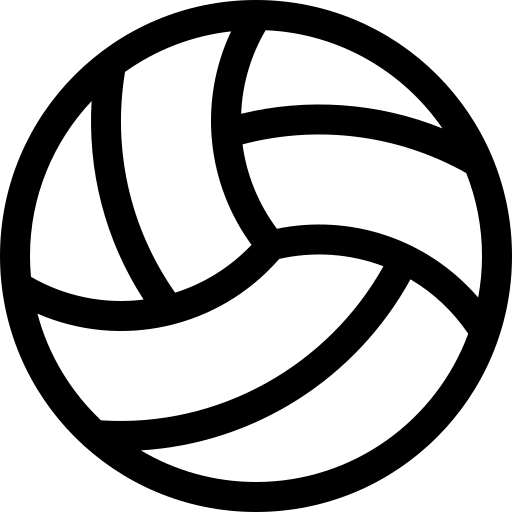
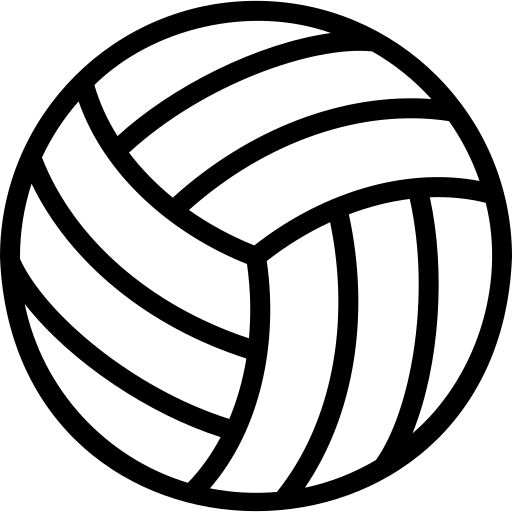
[FEAT] Refacto theme homeScreen

diff --git a/src/ui/components/cards/ShortcutCard.tsx b/src/ui/components/cards/ShortcutCard.tsx
@@ -4,58 +4,72 @@ import Row from '@components/common/Row';
 import ImageConstants from '@constants/ImageConstants';
 import { ShortcutCardInterface } from '@interfaces/ComponentsInterfaces';
 import { useTheme } from '@react-navigation/native';
+import Size from '@utils/Size';
 import React, { FC } from 'react';
-import { StyleSheet, Text, TouchableOpacity, View } from 'react-native';
+import { ImageBackground, StyleSheet, Text, TouchableOpacity, View } from 'react-native';
 
-const ShortcutCard: FC<ShortcutCardInterface> = ({ marginLeft = 20, marginRight = 20, onPress, label, icon }) => {
+const ShortcutCard: FC<ShortcutCardInterface> = ({ paddingLeft = 20, paddingRight = 20, onPress, label, icon }) => {
     const { colors } = useTheme();
     const styles = shortcutCardStyle(colors);
 
     return (
-        <TouchableOpacity
+        <View
             style={[
-                styles.container,
+                styles.mainContainer,
                 {
-                    marginLeft: marginLeft,
-                    marginRight: marginRight
+                    paddingLeft: paddingLeft,
+                    paddingRight: paddingRight
                 }
             ]}
-            onPress={onPress}
         >
-            <Row
-                justify={'space-between'}
-                flex={1}
+            <TouchableOpacity
+                style={[styles.container]}
+                onPress={onPress}
             >
-                <ImageIcon
-                    source={icon}
-                    size={40}
-                    color={colors.onSecondary}
-                />
-                <ImageButton
-                    source={ImageConstants.forwardArrow}
-                    size={16}
-                    color={colors.onSecondary}
-                    style={styles.arrowButton}
-                    onPress={onPress}
-                />
-            </Row>
+                <ImageBackground
+                    resizeMode={'cover'}
+                    tintColor={`${colors.onSecondary}11`}
+                    source={ImageConstants.shortcutBackDesign}
+                    style={styles.image}
+                >
+                    <Row
+                        justify={'space-between'}
+                        flex={1}
+                    >
+                        <ImageIcon
+                            source={icon}
+                            size={40}
+                            color={colors.onSecondary}
+                        />
+                        <ImageButton
+                            source={ImageConstants.forwardArrow}
+                            size={16}
+                            color={colors.onSecondary}
+                            style={styles.arrowButton}
+                            onPress={onPress}
+                        />
+                    </Row>
 
-            <View style={styles.textBox}>
-                <Text style={styles.text}>{label}</Text>
-            </View>
-        </TouchableOpacity>
+                    <View style={styles.textBox}>
+                        <Text style={styles.text}>{label}</Text>
+                    </View>
+                </ImageBackground>
+            </TouchableOpacity>
+        </View>
     );
 };
 
 const shortcutCardStyle = (colors: any) =>
     StyleSheet.create({
+        mainContainer: {
+            width: Size.getScreenWidth() / 2,
+            height: 120
+        },
         container: {
             flex: 1,
-            height: 120,
             backgroundColor: colors.secondary,
             elevation: 1,
-            borderRadius: 10,
-            padding: 15
+            borderRadius: 10
         },
         text: {
             color: colors.onSecondary,
@@ -73,6 +87,10 @@ const shortcutCardStyle = (colors: any) =>
             padding: 3,
             borderColor: colors.onSecondary,
             marginRight: 10
+        },
+        image: {
+            flex: 1,
+            padding: 15
         }
     });
 

diff --git a/src/ui/views/HomeScreen.tsx b/src/ui/views/HomeScreen.tsx
@@ -6,7 +6,7 @@ import ShortcutCard from '@components/cards/ShortcutCard';
 import CustomButton from '@components/common/CustomButton';
 import ImageIcon from '@components/common/ImageIcon';
 import Row from '@components/common/Row';
-import RouteConstants from '@constants/RouteConstants';
+import RouteConstants from '@constants/routes/RouteConstants';
 import { GeneralInformationsInterfaces } from '@interfaces/GeneralInformationsInterfaces';
 import { useTheme } from '@react-navigation/native';
 import { dateUtils } from '@utils/DateUtils';
@@ -22,8 +22,6 @@ const HomeScreen = ({ navigation }) => {
 
     const [homeScreenArticles, setHomeScreenArticles] = useState([]);
     const [generalInformations, setGeneralInformations] = useState<GeneralInformationsInterfaces>();
-
-    //console.log(navigation)
 
     useEffect(() => {
         fetchHomeScreenArticles();
@@ -79,6 +77,8 @@ const HomeScreen = ({ navigation }) => {
                     title={generalInformations?.title}
                     content={generalInformations?.content}
                 />
+
+                <Text style={styles.titleText}>{I18n.t('News')}</Text>
                 {homeScreenArticles.map((article, index) => (
                     <NewsCard
                         key={index}
@@ -105,15 +105,15 @@ const HomeScreen = ({ navigation }) => {
 
             <View>
                 <Text style={styles.titleText}>{I18n.t('QuickAccess')}</Text>
-                <Row>
+                <Row style={{ paddingTop: 5 }}>
                     <ShortcutCard
-                        marginRight={10}
+                        paddingRight={10}
                         onPress={() => navigation.navigate(RouteConstants.CALENDAR_SCREEN)}
                         label={I18n.t('CalendarScreen')}
                         icon={ImageConstants.calendar}
                     />
                     <ShortcutCard
-                        marginLeft={10}
+                        paddingLeft={10}
                         onPress={() =>
                             navigation.navigate(
                                 RouteConstants.NEWS_STACK_NAVIGATION as never,
@@ -149,7 +149,7 @@ const homeScreenStyle = (colors: any) =>
             marginLeft: 20,
             fontWeight: 'bold',
             fontSize: 20,
-            marginBottom: 10
+            marginBottom: 0
         }
     });
 

diff --git a/src/ui/components/cards/NewsCard.tsx b/src/ui/components/cards/NewsCard.tsx
@@ -1,7 +1,7 @@
 import ImageIcon from '@components/common/ImageIcon';
 import Row from '@components/common/Row';
 import ImageConstants from '@constants/ImageConstants';
-import RouteConstants from '@constants/RouteConstants';
+import RouteConstants from '@constants/routes/RouteConstants';
 import { useNavigation, useTheme } from '@react-navigation/native';
 import Size from '@utils/Size';
 import React from 'react';
@@ -40,13 +40,12 @@ const NewsCard = ({ important, title, publishedDate, content, index, fromHomeScr
                 }}
             >
                 <Row alignItems={'flex-start'}>
-                    {important && index === 0 && (
-                        <ImageIcon
-                            source={ImageConstants.news}
-                            size={80}
-                            color={colors.tertiary}
-                        />
-                    )}
+                    <ImageIcon
+                        source={important && index === 0 ? ImageConstants.tournament : ImageConstants.newspaper}
+                        size={important && index === 0 ? 60 : 30}
+                        color={!important && colors.tertiary}
+                    />
+
                     <View style={styles.textBox}>
                         <Text
                             numberOfLines={1}

diff --git a/src/ui/components/cards/CustomHeaderCard.tsx b/src/ui/components/cards/CustomHeaderCard.tsx
@@ -2,7 +2,7 @@ import ImageButton from '@components/common/ImageButton';
 import ImageIcon from '@components/common/ImageIcon';
 import Row from '@components/common/Row';
 import ImageConstants from '@constants/ImageConstants';
-import RouteConstants from '@constants/RouteConstants';
+import RouteConstants from '@constants/routes/RouteConstants';
 import { CustomHeaderCardInterface } from '@interfaces/ComponentsInterfaces';
 import { useNavigation, useRoute, useTheme } from '@react-navigation/native';
 import Size from '@utils/Size';
@@ -44,13 +44,13 @@ const CustomHeaderCard: FC<CustomHeaderCardInterface> = ({ label, icon, onPress,
 
                 {route.name === RouteConstants.HOME_SCREEN ? (
                     <ImageIcon
-                        source={ImageConstants.volleyballBall2}
+                        source={ImageConstants.volleyballBall}
                         size={50}
                         color={colors.tertiary}
                     />
                 ) : (
                     <ImageButton
-                        source={ImageConstants.volleyballBall2}
+                        source={ImageConstants.volleyballBall}
                         size={height ? height * 0.66 : 50}
                         color={colors.tertiary}
                         onPress={() =>

diff --git a/src/constants/fixtures/ArticleFixtures.ts b/src/constants/fixtures/ArticleFixtures.ts
@@ -38,7 +38,7 @@ export const ArticleFixtures = [
     {
         id: 4,
         attributes: {
-            title: 'Article 4',
+            title: 'Seniors Féminines Régionale',
             createdAt: '2023-08-14T20:27:32.939Z',
             updatedAt: '2023-08-14T20:27:38.714Z',
             publishedAt: '2023-08-14T20:27:38.712Z',
@@ -50,7 +50,7 @@ export const ArticleFixtures = [
     {
         id: 5,
         attributes: {
-            title: 'Article 5',
+            title: 'Tournoi 14/09',
             createdAt: '2023-08-14T20:27:41.427Z',
             updatedAt: '2023-08-14T20:27:46.517Z',
             publishedAt: '2023-08-14T20:27:46.516Z',
@@ -62,7 +62,7 @@ export const ArticleFixtures = [
     {
         id: 6,
         attributes: {
-            title: 'Article 6',
+            title: 'Tarifs 2023-2024',
             createdAt: '2023-08-14T20:27:52.694Z',
             updatedAt: '2023-08-14T20:27:56.729Z',
             publishedAt: '2023-08-14T20:27:56.727Z',

diff --git a/src/interfaces/ComponentsInterfaces.ts b/src/interfaces/ComponentsInterfaces.ts
@@ -5,7 +5,7 @@ export interface CustomButtonInterface {
     label: string;
     onPress: () => void;
     backgroundColor?: 'primary' | 'secondary' | 'tertiary' | 'transparent';
-    textColor?: 'onPrimary' | 'onSecondary' | 'onTertiary' | 'onBackground';
+    textColor?: 'onPrimary' | 'onSecondary' | 'onTertiary' | 'onBackground' | 'primary' | 'secondary' | 'tertiary';
     fontWeight?: 'normal' | 'bold' | '100' | '200' | '300' | '400' | '500' | '600' | '700' | '800' | '900';
     isScreenFullWidth?: boolean;
     icon?: ImageSourcePropType;
@@ -51,8 +51,8 @@ export interface CustomHeaderCardInterface {
 }
 
 export interface ShortcutCardInterface {
-    marginLeft?: number;
-    marginRight?: number;
+    paddingLeft?: number;
+    paddingRight?: number;
     onPress: () => void;
     label: string;
     icon: ImageSourcePropType;

diff --git a/src/constants/ImageConstants.ts b/src/constants/ImageConstants.ts
@@ -12,9 +12,12 @@ export default {
     team: require('@assets/images/team.png'),
     volleyballBall: require('@assets/images/volleyballBall.png'),
     volleyballBall2: require('@assets/images/volleyballBall2.png'),
-    information: require('@assets/images/information.png'),
+    information: require('@assets/images/info.png'),
     news: require('@assets/images/news.png'),
     backArrow: require('@assets/images/backArrow.png'),
     forwardArrow: require('@assets/images/forwardArrow.png'),
-    menu: require('@assets/images/menu.png')
+    menu: require('@assets/images/menu.png'),
+    tournament: require('@assets/images/tournament.png'),
+    newspaper: require('@assets/images/newspaper.png'),
+    shortcutBackDesign: require('@assets/images/shortcutBackDesign.png')
 };

diff --git a/src/ui/components/cards/GeneralInformationsCard.tsx b/src/ui/components/cards/GeneralInformationsCard.tsx
@@ -36,6 +36,7 @@ const GeneralInformationsCard: FC<GeneralInformationsInterfaces> = ({ title, con
                         setIsVisible(true);
                     }}
                     backgroundColor={'transparent'}
+                    textColor={'tertiary'}
                     isScreenFullWidth={false}
                     fontSize={14}
                     style={{ paddingRight: 0, paddingBottom: 0 }}
@@ -76,8 +77,8 @@ const generalInformationsCardStyle = (colors: any) =>
         container: {
             width: Size.getScreenWidth(),
             padding: 20,
-            paddingTop: 0,
-            paddingBottom: 5
+            paddingTop: 5,
+            paddingBottom: 20
         },
         touchable: {
             backgroundColor: colors.surface,

diff --git a/src/ui/navigation/DrawerNavigation.tsx b/src/ui/navigation/DrawerNavigation.tsx
@@ -1,5 +1,6 @@
 import ImageIcon from '@components/common/ImageIcon';
 import CustomDrawer from '@components/customDrawer/CustomDrawer';
+import RouteConstants from '@constants/routes/RouteConstants';
 import NewsStackNavigation from '@navigation/NewsStackNavigation';
 import { createDrawerNavigator } from '@react-navigation/drawer';
 import { useTheme } from '@react-navigation/native';
@@ -10,7 +11,6 @@ import SettingsScreen from '@ui/views/SettingsScreen';
 import I18n from '@utils/I18n';
 import React from 'react';
 import ImageConstants from '../../constants/ImageConstants';
-import RouteConstants from '../../constants/RouteConstants';
 
 const Drawer = createDrawerNavigator();
 

diff --git a/src/resources/i18n/fr.tsx b/src/resources/i18n/fr.tsx
@@ -32,11 +32,11 @@ export default {
     Unavailable: 'Indisponible',
     Reason: 'Raison',
 
-    LastNews: 'Dernières actualités',
-    SeeMoreNews: "Voir plus d'actualités +",
+    News: 'Actualités',
+    SeeMoreNews: "Voir plus d'actualités",
     QuickAccess: 'Accès Rapide',
     Informations: 'Informations',
-    KnowMore: 'En savoir plus +',
+    KnowMore: 'En savoir plus',
     Welcome: 'Bienvenue',
     VilliersVolley: 'Villiers Volley',
     ClubName: 'ES Villiers-sur-Marne Volleyball'

diff --git a/src/ui/navigation/NewsStackNavigation.tsx b/src/ui/navigation/NewsStackNavigation.tsx
@@ -1,10 +1,10 @@
+import RouteConstants from '@constants/routes/RouteConstants';
 import { useTheme } from '@react-navigation/native';
 import { createStackNavigator } from '@react-navigation/stack';
 import NewsArticleScreen from '@ui/views/NewsArticleScreen';
 import NewsScreen from '@ui/views/NewsScreen';
 import I18n from '@utils/I18n';
 import React, { useEffect } from 'react';
-import RouteConstants from '../../constants/RouteConstants';
 
 const Stack = createStackNavigator();
 

diff --git a/src/ui/views/SplashScreen.tsx b/src/ui/views/SplashScreen.tsx
@@ -1,9 +1,9 @@
+import RouteConstants from '@constants/routes/RouteConstants';
 import { useTheme } from '@react-navigation/native';
 import Size from '@utils/Size';
 import React, { useEffect } from 'react';
 import { Image, StyleSheet, View } from 'react-native';
 import Images from '../../constants/ImageConstants';
-import RouteConstants from '../../constants/RouteConstants';
 
 const SplashScreen = ({ navigation }) => {
     const { colors } = useTheme();
